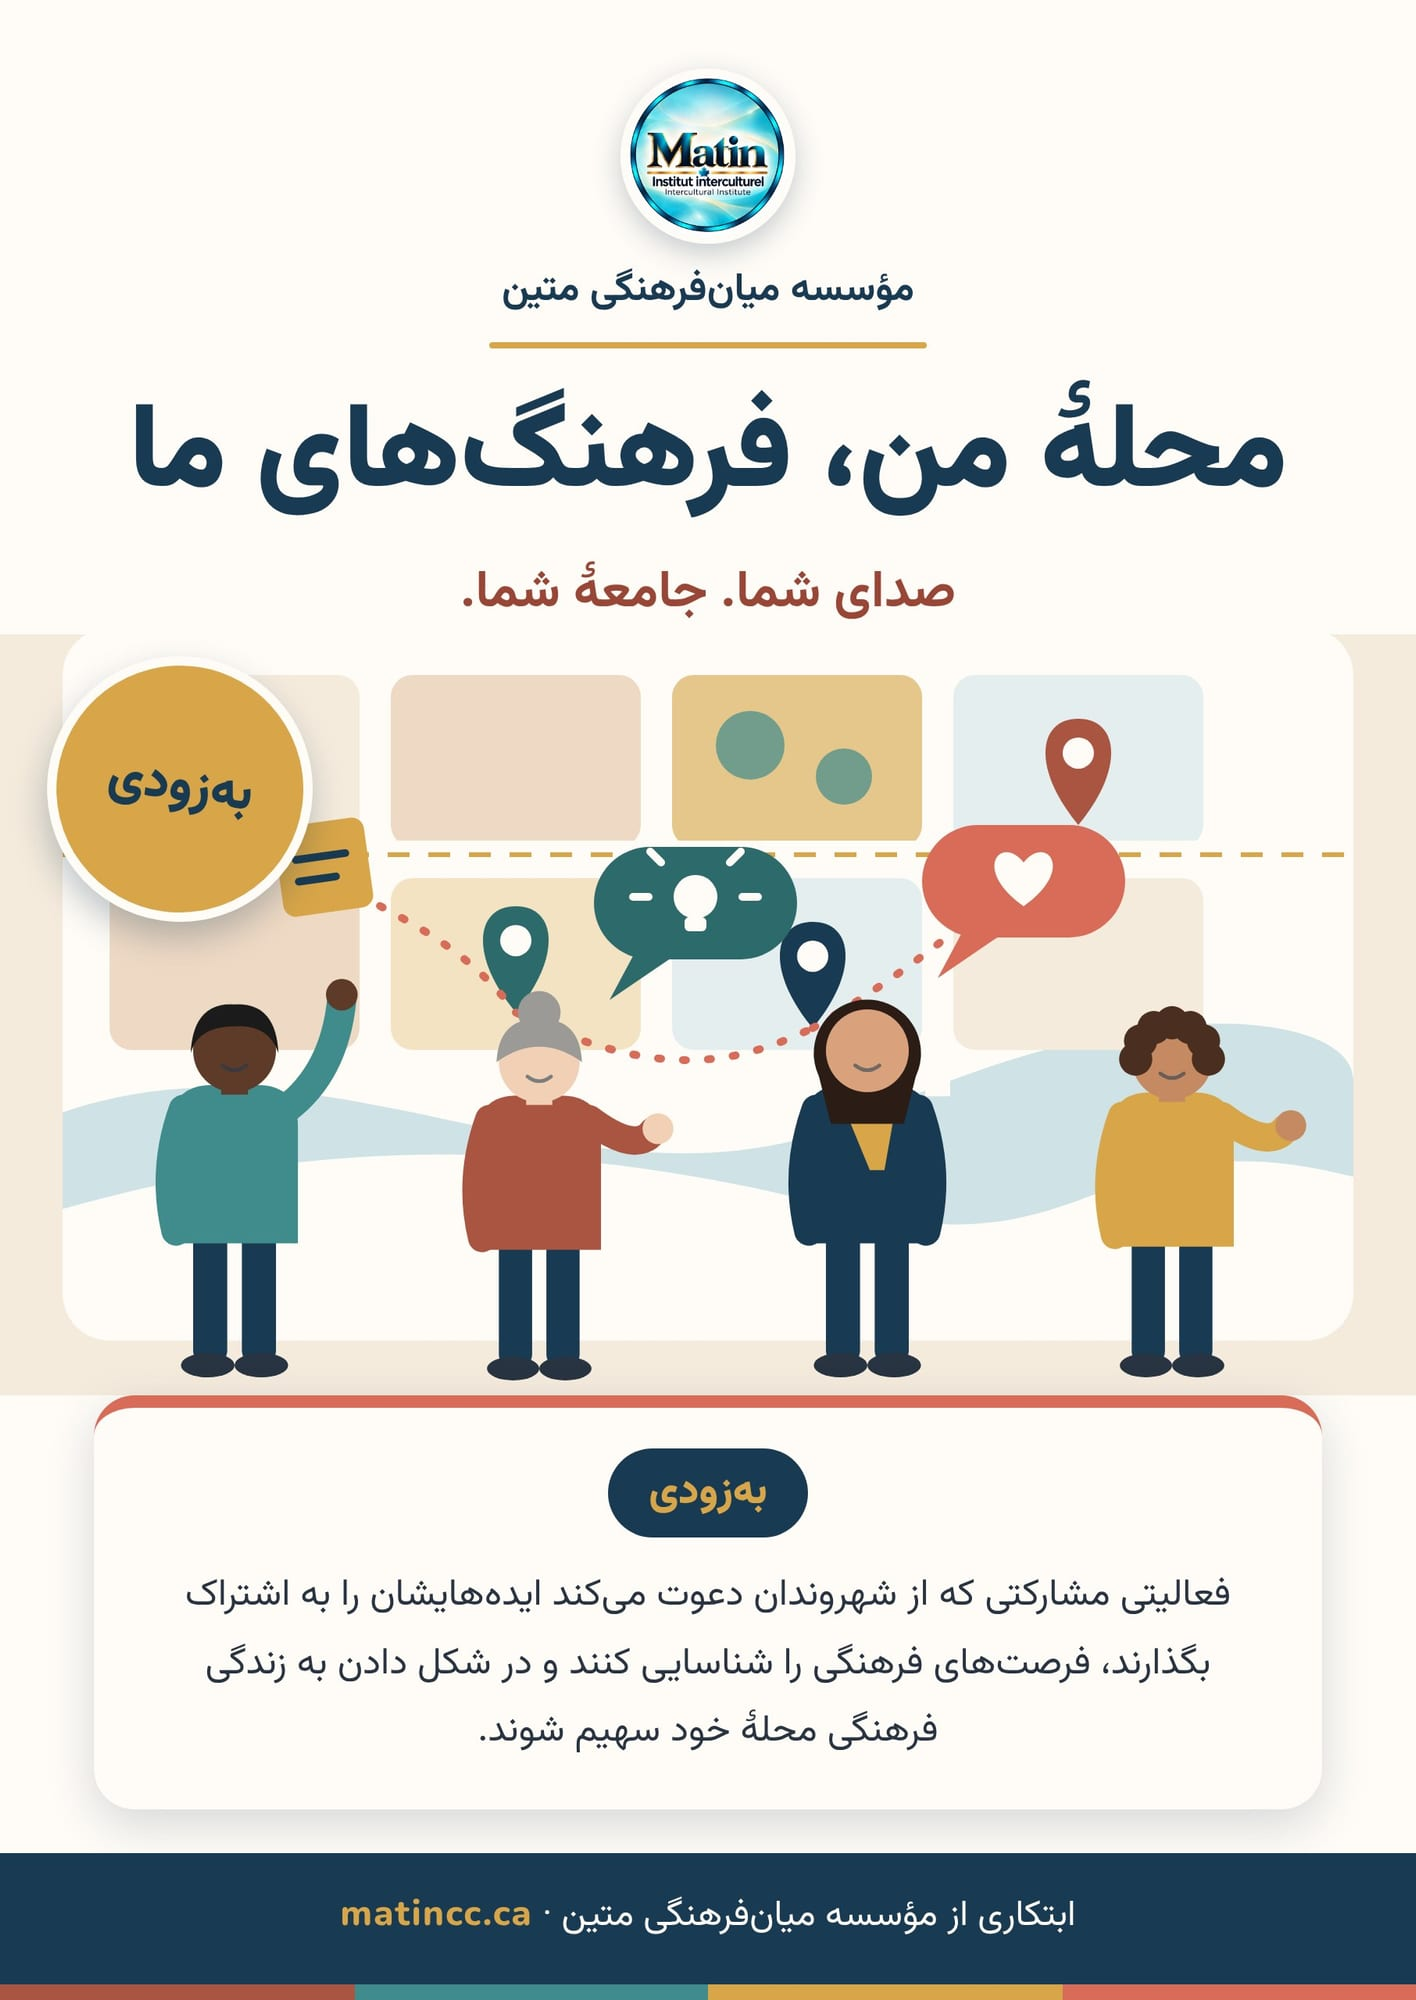
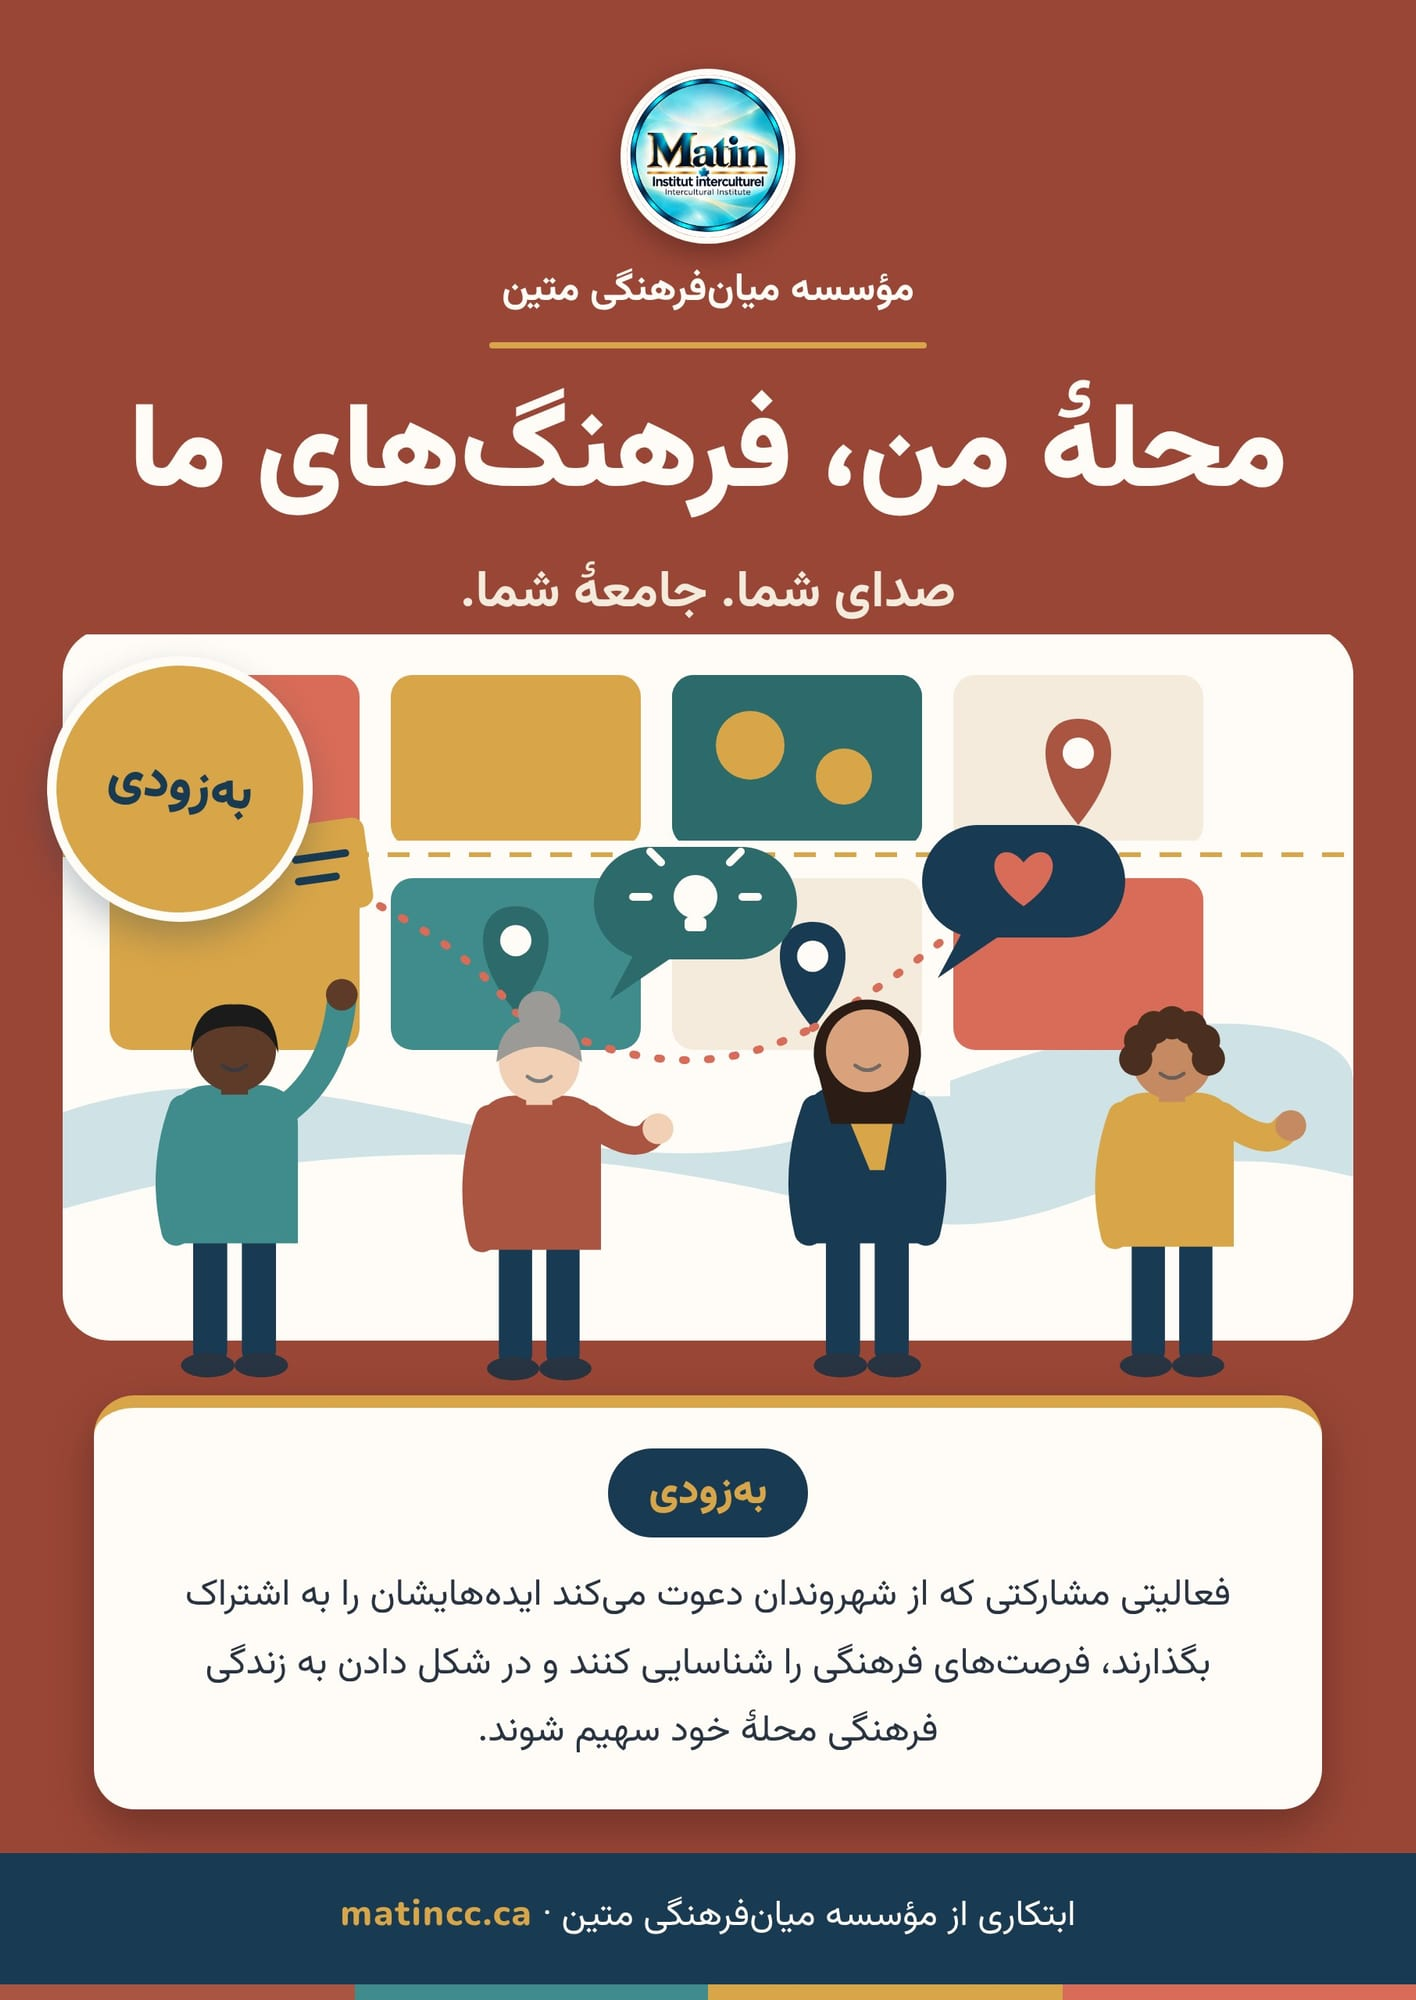
Coming-soon posters: full-colour grounds and livelier scenes
Owner's request (Oct 27 2026): the posters looked pale. Café des cultures on deep teal with a mustard
scene, Mon quartier, nos cultures on deep terracotta with a colourful map. Palette colours only.

Claude-Session: https://claude.ai/code/session_019XEtJQmomJYpCrMv4UuJL2

diff --git a/scripts/posters/poster.html b/scripts/posters/poster.html
@@ -147,6 +147,29 @@
         font-size: 33px;
         line-height: 1.5;
       }
+      /* Lively, full-colour grounds (owner's request, Oct 27 2026: "more colour, more life"). */
+      body[data-poster='cafe'] {
+        background: var(--teal-deep);
+      }
+      body[data-poster='quartier'] {
+        background: var(--brick);
+      }
+      body[data-poster] .institute,
+      body[data-poster] h1 {
+        color: var(--paper);
+      }
+      body[data-poster='cafe'] .sub {
+        color: var(--gold);
+      }
+      body[data-poster='quartier'] .sub {
+        color: var(--cream);
+      }
+      body[data-poster] .logo {
+        box-shadow: 0 6px 18px rgba(0, 0, 0, 0.3);
+      }
+      body[data-poster] .card {
+        box-shadow: 0 12px 30px rgba(0, 0, 0, 0.28);
+      }
       .art {
         position: relative;
         flex: 1;
@@ -325,6 +348,7 @@
           },
         },
       };
+      document.body.dataset.poster = which;
       const rtl = lang === 'fa';
       document.documentElement.dir = rtl ? 'rtl' : 'ltr';
       document.documentElement.lang = lang;
@@ -337,7 +361,7 @@
       set('soon', T.soon[lang]);
       set('foot', T.foot[lang]);
       document.querySelector('.card').style.borderTopColor =
-        which === 'cafe' ? 'var(--teal)' : 'var(--coral)';
+        which === 'cafe' ? 'var(--gold)' : 'var(--gold)';
 
       // ---------- Illustration helpers (flat shapes only) ----------
       const C = {
@@ -490,10 +514,11 @@
       let svg = '';
       if (which === 'cafe') {
         // Warm room: cream wall, overlapping "dialogue" circles, a round table.
-        svg += `<rect width="${W}" height="${H}" fill="${C.cream}"/>`;
-        svg += `<circle cx="160" cy="${H * 0.36}" r="190" fill="${C.teal}" fill-opacity="0.22"/>`;
-        svg += `<circle cx="${W - 150}" cy="${H * 0.3}" r="170" fill="${C.coral}" fill-opacity="0.22"/>`;
-        svg += `<circle cx="${W / 2}" cy="${H * 0.18}" r="120" fill="${C.gold}" fill-opacity="0.25"/>`;
+        svg += `<clipPath id="wall"><rect x="30" y="0" width="${W - 60}" height="${H - 20}" rx="34"/></clipPath>`;
+        svg += `<g clip-path="url(#wall)"><rect width="${W}" height="${H}" fill="${C.gold}"/>`;
+        svg += `<circle cx="170" cy="${H * 0.36}" r="190" fill="${C.coral}" fill-opacity="0.85"/>`;
+        svg += `<circle cx="${W - 160}" cy="${H * 0.32}" r="175" fill="${C.teal}" fill-opacity="0.8"/>`;
+        svg += `<circle cx="${W / 2}" cy="${H * 0.2}" r="130" fill="${C.paper}" fill-opacity="0.55"/></g>`;
         // window with Montréal-ish rooftops
         svg += `<rect x="${W / 2 - 150}" y="18" width="300" height="150" rx="18" fill="${C.aqua}"/>`;
         svg += `<path d="M ${W / 2 - 150} 150 L ${W / 2 - 110} 112 L ${W / 2 - 70} 132 L ${W / 2 - 30} 96 L ${W / 2 + 10} 126 L ${W / 2 + 60} 84 L ${W / 2 + 100} 118 L ${W / 2 + 150} 100 L ${W / 2 + 150} 168 L ${W / 2 - 150} 168 Z" fill="${C.tealDeep}" fill-opacity="0.55"/>`;
@@ -518,7 +543,7 @@
           s: 0.95,
           skin: skins[0],
           hair: hairs[3],
-          top: C.gold,
+          top: C.paper,
           style: 'long',
           legs: false,
           scarf: C.coral,
@@ -552,12 +577,11 @@
           arm: 'down',
         });
         // speech bubbles
-        svg += bubble(150, base - 170, 150, 82, C.coral, 'right', 'heart');
+        svg += bubble(150, base - 170, 150, 82, C.paper, 'right', 'heart', C.coral);
         svg += bubble(W / 2 - 60, base - 215, 150, 82, C.tealDeep, 'left', 'globe');
-        svg += bubble(W - 360, base - 165, 150, 82, C.gold, 'left', 'dots', C.navy);
+        svg += bubble(W - 360, base - 165, 150, 82, C.navy, 'left', 'dots', C.gold);
       } else {
         // A neighbourhood map: blocks, streets, a park and a river, pins and people.
-        svg += `<rect width="${W}" height="${H}" fill="${C.cream}"/>`;
         const map = [];
         map.push(
           `<rect x="40" y="10" width="${W - 80}" height="${H - 60}" rx="30" fill="${C.paper}"/>`,
@@ -569,7 +593,7 @@
         // blocks
         const cols = [70, 250, 430, 610];
         const rows = [40, 170];
-        const fills = [C.cream, '#EED9C4', '#F3E3C3', '#E5EEEF'];
+        const fills = [C.coral, C.gold, C.teal, C.cream];
         rows.forEach((ry, i) =>
           cols.forEach((cx, j) =>
             map.push(
@@ -579,10 +603,10 @@
         );
         // park
         map.push(
-          `<rect x="430" y="40" width="160" height="110" rx="14" fill="${C.gold}" fill-opacity="0.45"/>`,
+          `<rect x="430" y="40" width="160" height="110" rx="14" fill="${C.tealDeep}"/>`,
         );
         map.push(
-          `<circle cx="480" cy="85" r="22" fill="${C.teal}" fill-opacity="0.7"/><circle cx="540" cy="105" r="18" fill="${C.teal}" fill-opacity="0.7"/>`,
+          `<circle cx="480" cy="85" r="22" fill="${C.gold}"/><circle cx="540" cy="105" r="18" fill="${C.gold}"/>`,
         );
         // streets
         map.push(`<path d="M 40 155 L ${W - 40} 155" stroke="${C.paper}" stroke-width="18"/>`);
@@ -653,7 +677,7 @@
         svg += `<rect x="178" y="${base - 120}" width="58" height="58" rx="8" fill="${C.gold}" transform="rotate(-8 207 ${base - 91})"/>`;
         svg += `<path d="M 190 ${base - 98} h 32 M 190 ${base - 84} h 24" stroke="${C.navy}" stroke-width="5" stroke-linecap="round" transform="rotate(-8 207 ${base - 91})"/>`;
         svg += bubble(380, base - 104, 130, 72, C.tealDeep, 'left', 'bulb');
-        svg += bubble(590, base - 118, 130, 72, C.coral, 'left', 'heart');
+        svg += bubble(590, base - 118, 130, 72, C.navy, 'left', 'heart', C.coral);
       }
       art.insertAdjacentHTML(
         'afterbegin',
